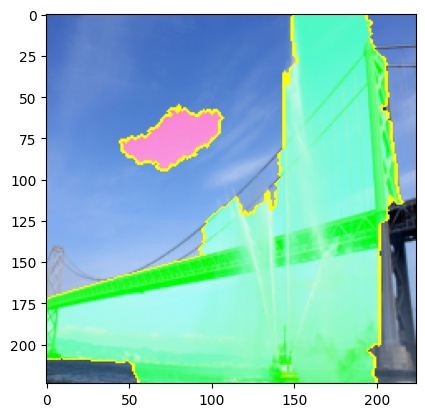
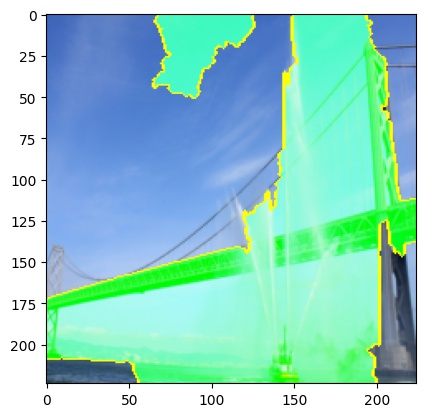
update

Changed region(s): [[0.2753, 0.0312, 0.6118, 0.4365], [0.4588, 0.4676, 0.6118, 0.6235], [0.8871, 0.4676, 0.9788, 0.6235]]

diff --git a/runner.py b/runner.py
@@ -18,15 +18,15 @@ def normalize_explanations(explanation, explanation_norm_type):
     """
     if explanation_norm_type == "std":
         explanation = (explanation - torch.mean(explanation)) / torch.std(explanation, unbiased=False)
-    if explanation_norm_type == "minmax":
+    elif explanation_norm_type == "minmax":
         maxval = torch.max(explanation)
         minval = torch.min(explanation)
         explanation_std = (explanation - minval) / (maxval - minval)
         explanation = explanation_std * (maxval - minval) + minval
-    if explanation_norm_type == "scale":
+    elif explanation_norm_type == "scale":
         maxval = torch.max(explanation)
         explanation = explanation/maxval
-    if explanation_norm_type == "none":
+    elif explanation_norm_type == "none":
         explanation = explanation
     else:
         raise ValueError
@@ -92,10 +92,10 @@ if __name__ == '__main__':
     image_path = "./data/fireboat.jpeg"
     image_name = "fireboat"
     label_name = "fireboat"
-    explanation_norm_type = "minmax"
+    explanation_norm_type = "scale"
     zero_out_threshold = 0.01
     path = './outputs/results_' + image_name + "_" + \
-           explanation_norm_type + "_" + "{:.2f}".format(zero_out_threshold) + '.txt'
+           explanation_norm_type + "_" + "{:.5f}".format(zero_out_threshold) + '.txt'
 
     # load image
     image = PIL.Image.open(image_path)
@@ -113,7 +113,7 @@ if __name__ == '__main__':
     explanation_ig = get_explanation_ig(MODEL, input_batch, CATEGORIES, label_name)
     topk_pred_ig = evaluate_pixel_based_methods(
         explanation=explanation_ig, input_image=input_image, image=image,
-        image_name=image_name + "_ig" + "_" + explanation_norm_type + "_" + "{:.2f}".format(zero_out_threshold),
+        image_name=image_name + "_ig" + "_" + explanation_norm_type + "_" + "{:.5f}".format(zero_out_threshold),
         model=MODEL,
         categories=CATEGORIES,
         threshold=zero_out_threshold,
@@ -127,7 +127,7 @@ if __name__ == '__main__':
     explanation_ldm = get_explanation_ldm(MODEL, input_batch)
     topk_pred_ldm = evaluate_pixel_based_methods(
         explanation=explanation_ldm, input_image=input_image, image=image,
-        image_name=image_name + "_ldm" + "_" + explanation_norm_type + "_" + "{:.2f}".format(zero_out_threshold),
+        image_name=image_name + "_ldm" + "_" + explanation_norm_type + "_" + "{:.5f}".format(zero_out_threshold),
         model=MODEL,
         categories=CATEGORIES,
         threshold=zero_out_threshold,
